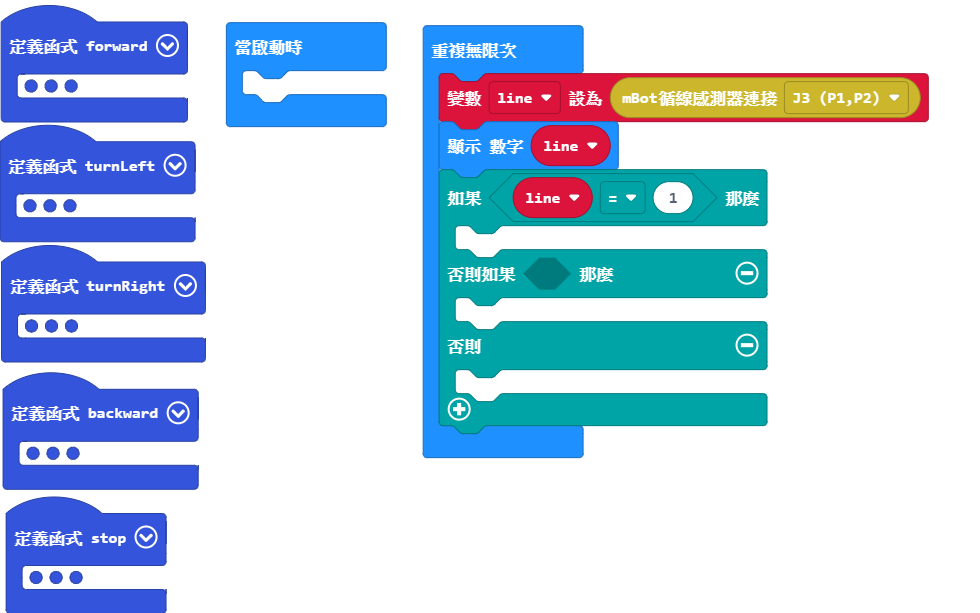
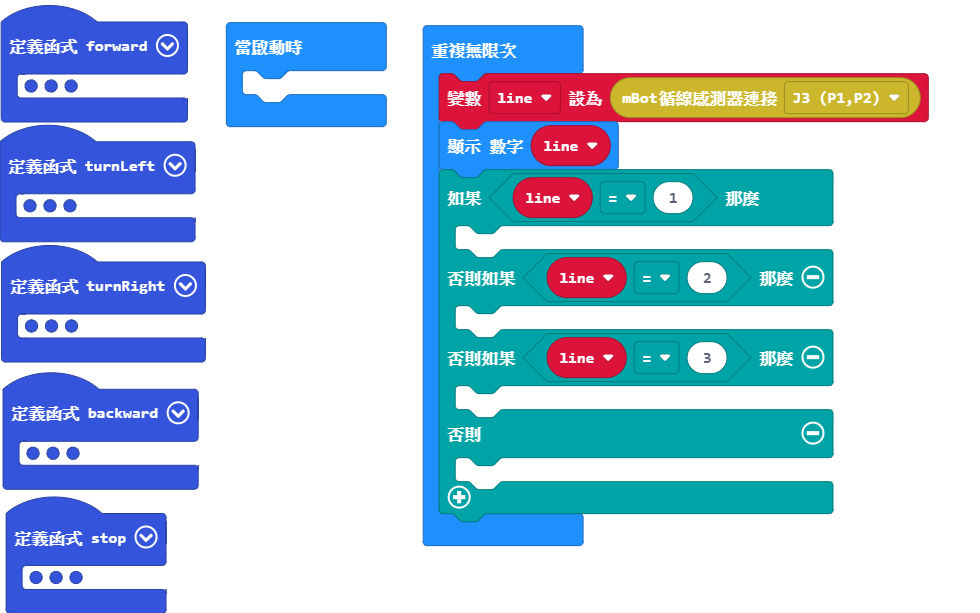
Update main.blocks, main.ts

Changed region(s): [[0.4286, 0.4029, 0.8571, 0.8989], [0.7653, 0.248, 0.8571, 0.3719]]

diff --git a/main.ts b/main.ts
@@ -34,7 +34,9 @@ basic.forever(function () {
     basic.showNumber(line)
     if (line == 1) {
     	
-    } else if (false) {
+    } else if (line == 2) {
+    	
+    } else if (line == 3) {
     	
     } else {
     	
